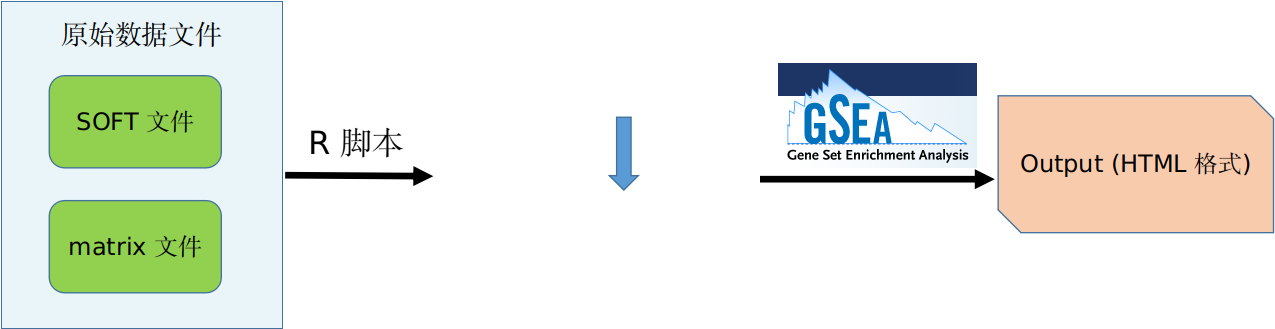
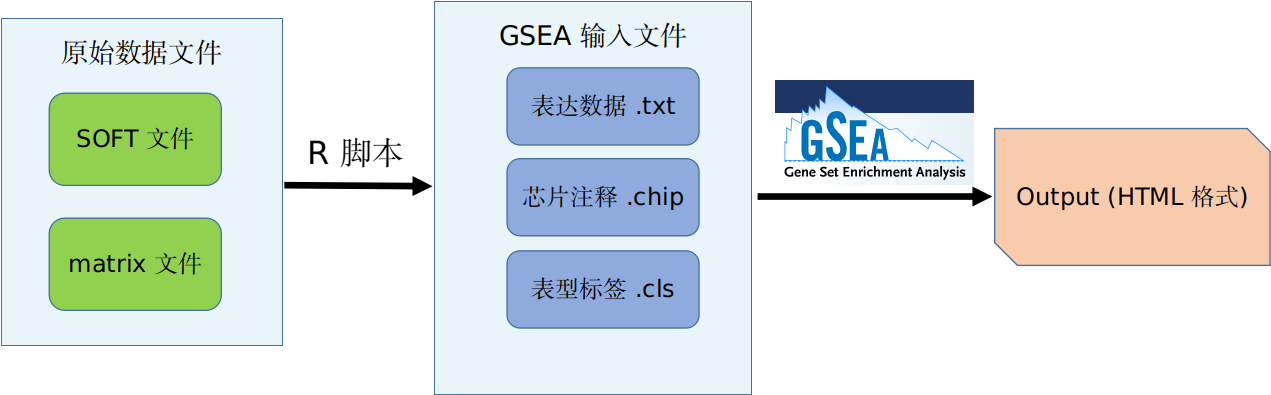
gsea pipeline

diff --git a/part-i.-basic-tools/4.gokegg/4.3.gsea.md b/part-i.-basic-tools/4.gokegg/4.3.gsea.md
@@ -2,7 +2,7 @@
 
 ## 1) Pipeline
 
-![](../../.gitbook/assets/gsea-home.gif)
+![](../../.gitbook/assets/gsea-pipeline.png)
 
 ## 2) data structure
 
